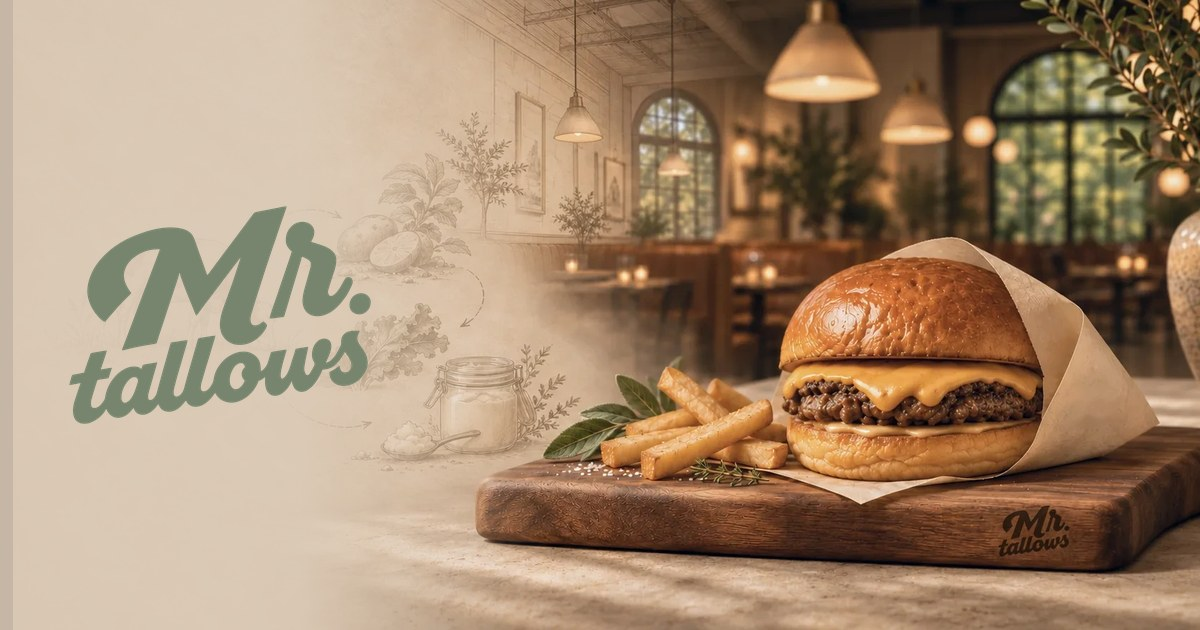
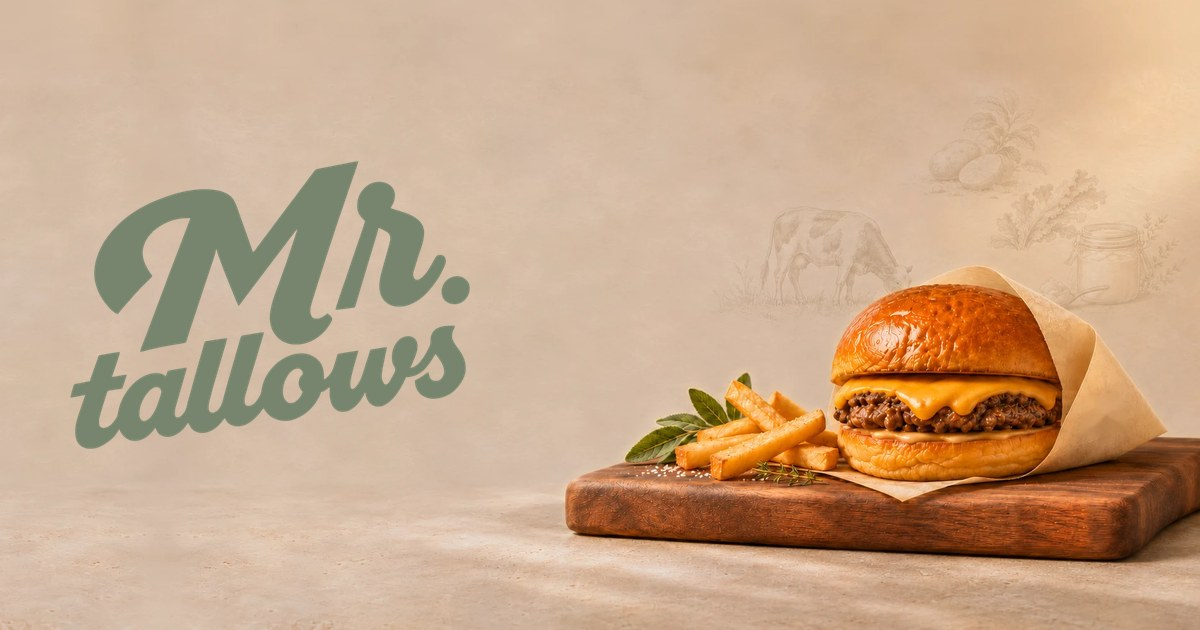
Share preview matches the new hero

diff --git a/src/app/layout.tsx b/src/app/layout.tsx
@@ -29,7 +29,7 @@ export const metadata: Metadata = {
     siteName: site.name,
     title: "Mr. Tallow's | Rewriting American Fast Food",
     description: site.description,
-    images: [{ url: "/og.jpg", width: 1200, height: 630, alt: "A Mr. Tallow's cheeseburger and fries on a walnut board in a warmly lit dining room" }],
+    images: [{ url: "/og.jpg", width: 1200, height: 630, alt: "The Mr. Tallow's logo beside a cheeseburger and fries on a walnut board against a limestone wall" }],
   },
   twitter: { card: "summary_large_image" },
   icons: { icon: [{ url: "/brand/favicon.svg", type: "image/svg+xml" }, { url: "/brand/icon.png" }], apple: "/brand/apple-icon.png" },
